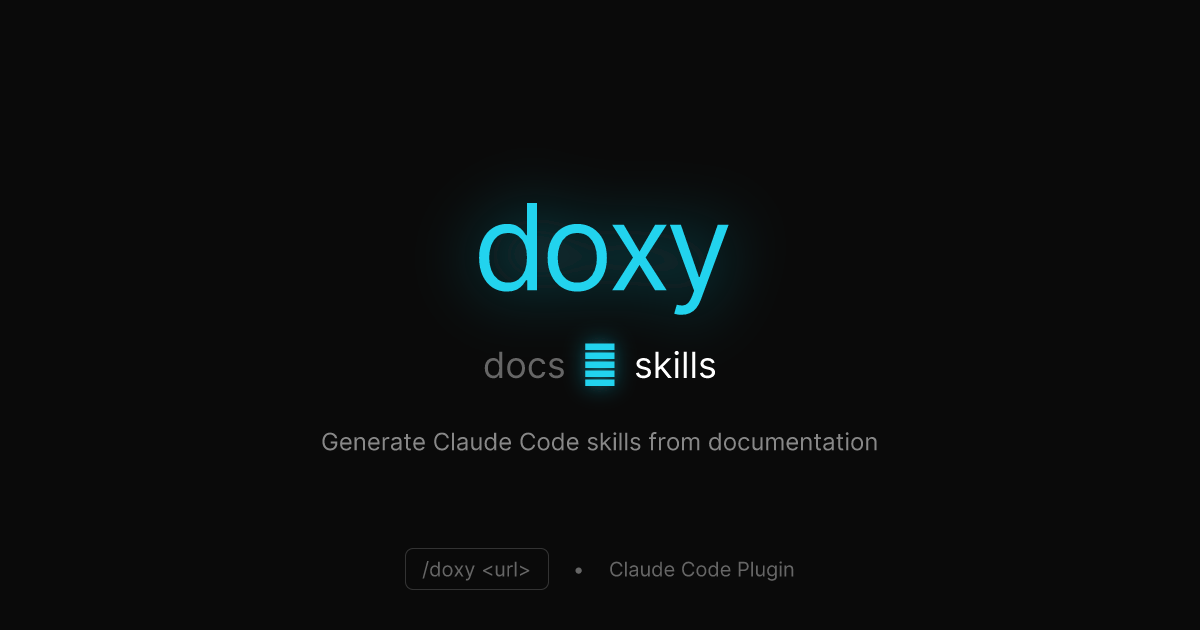
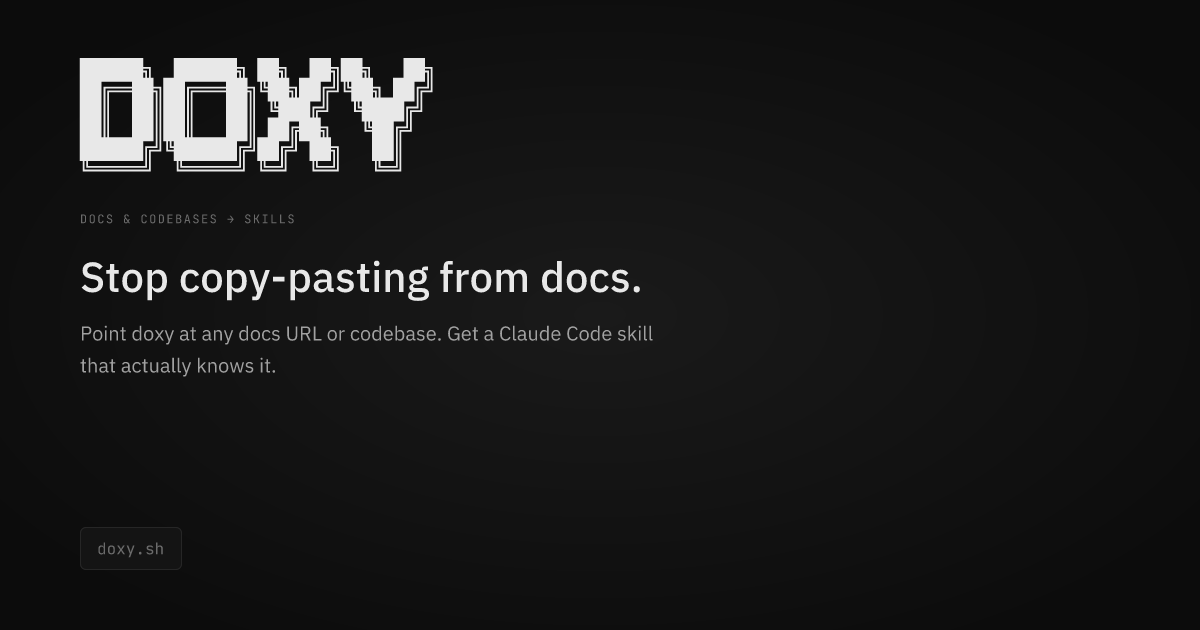
Update OG image to match stone-dark site theme
- ASCII art logo, left-aligned layout
- Stone-dark colors (#0c0c0c background, #e8e8e8 text)
- JetBrains Mono + IBM Plex Sans fonts
- Matches site's terminal/hacker aesthetic

diff --git a/site/scripts/generate-og.ts b/site/scripts/generate-og.ts
@@ -2,17 +2,28 @@
 
 /**
  * Generates the OG image for the site.
- * Run with: deno run --allow-net --allow-write --allow-read scripts/generate-og.ts
+ * Run with: deno task og
  */
 
 import satori from "satori";
 import { Resvg, initWasm } from "@resvg/resvg-wasm";
 
-// Fetch font
-const fontResponse = await fetch(
-  "https://fonts.gstatic.com/s/inter/v13/UcCO3FwrK3iLTeHuS_fvQtMwCp50KnMw2boKoduKmMEVuLyfAZ9hjp-Ek-_EeA.woff"
-);
-const fontData = await fontResponse.arrayBuffer();
+// Fetch fonts (TTF from Google Fonts - satori doesn't support woff2)
+const [jetbrainsResponse, ibmPlex400Response, ibmPlex500Response] = await Promise.all([
+  fetch(
+    "https://fonts.gstatic.com/s/jetbrainsmono/v24/tDbY2o-flEEny0FZhsfKu5WU4zr3E_BX0PnT8RD8yKxjPQ.ttf"
+  ),
+  fetch(
+    "https://fonts.gstatic.com/s/ibmplexsans/v23/zYXGKVElMYYaJe8bpLHnCwDKr932-G7dytD-Dmu1swZSAXcomDVmadSD6llzAA.ttf"
+  ),
+  fetch(
+    "https://fonts.gstatic.com/s/ibmplexsans/v23/zYXGKVElMYYaJe8bpLHnCwDKr932-G7dytD-Dmu1swZSAXcomDVmadSD2FlzAA.ttf"
+  ),
+]);
+
+const jetbrainsFont = await jetbrainsResponse.arrayBuffer();
+const ibmPlex400Font = await ibmPlex400Response.arrayBuffer();
+const ibmPlex500Font = await ibmPlex500Response.arrayBuffer();
 
 // Initialize WASM
 const wasmResponse = await fetch(
@@ -23,6 +34,14 @@ await initWasm(wasmBuffer);
 
 console.log("Generating OG image...");
 
+// ASCII art logo - simplified for better rendering
+const asciiLogo = `██████╗  ██████╗ ██╗  ██╗██╗   ██╗
+██╔══██╗██╔═══██╗╚██╗██╔╝╚██╗ ██╔╝
+██║  ██║██║   ██║ ╚███╔╝  ╚████╔╝
+██║  ██║██║   ██║ ██╔██╗   ╚██╔╝
+██████╔╝╚██████╔╝██╔╝ ██╗   ██║
+╚═════╝  ╚═════╝ ╚═╝  ╚═╝   ╚═╝`;
+
 const svg = await satori(
   {
     type: "div",
@@ -32,126 +51,96 @@ const svg = await satori(
         width: "100%",
         display: "flex",
         flexDirection: "column",
-        alignItems: "center",
-        justifyContent: "center",
-        backgroundColor: "#0a0a0a",
-        fontFamily: "Inter",
+        padding: "60px 80px",
+        backgroundColor: "#0c0c0c",
+        fontFamily: "IBM Plex Sans",
+        // Subtle gradient like the site
+        background: "radial-gradient(ellipse 100% 100% at 50% 0%, #1a1a1a 0%, #0c0c0c 60%)",
       },
       children: [
+        // ASCII Logo
         {
-          type: "div",
+          type: "pre",
           props: {
             style: {
-              display: "flex",
-              flexDirection: "column",
-              alignItems: "center",
+              fontFamily: "JetBrains Mono",
+              fontSize: 18,
+              lineHeight: 1.1,
+              color: "#e8e8e8",
+              margin: 0,
+              letterSpacing: "-0.02em",
             },
-            children: [
-              // Logo
-              {
-                type: "div",
-                props: {
-                  style: {
-                    fontSize: 120,
-                    fontWeight: 700,
-                    color: "#22d3ee",
-                    letterSpacing: "-0.05em",
-                    textShadow: "0 0 60px rgba(34, 211, 238, 0.5)",
-                  },
-                  children: "doxy",
-                },
-              },
-              // Tagline
-              {
-                type: "div",
-                props: {
-                  style: {
-                    display: "flex",
-                    alignItems: "center",
-                    gap: 16,
-                    marginTop: 24,
-                    fontSize: 36,
-                  },
-                  children: [
-                    {
-                      type: "span",
-                      props: {
-                        style: { color: "#666" },
-                        children: "docs",
-                      },
-                    },
-                    {
-                      type: "span",
-                      props: {
-                        style: {
-                          color: "#22d3ee",
-                          textShadow: "0 0 20px rgba(34, 211, 238, 0.5)",
-                        },
-                        children: "→",
-                      },
-                    },
-                    {
-                      type: "span",
-                      props: {
-                        style: { color: "#fff" },
-                        children: "skills",
-                      },
-                    },
-                  ],
-                },
-              },
-              // Description
-              {
-                type: "div",
-                props: {
-                  style: {
-                    marginTop: 40,
-                    fontSize: 24,
-                    color: "#888",
-                    maxWidth: 600,
-                    textAlign: "center",
-                  },
-                  children: "Generate Claude Code skills from documentation",
-                },
-              },
-            ],
+            children: asciiLogo,
           },
         },
-        // Footer
+        // Section label
         {
           type: "div",
           props: {
             style: {
-              position: "absolute",
-              bottom: 40,
+              fontFamily: "JetBrains Mono",
+              fontSize: 12,
+              textTransform: "uppercase",
+              letterSpacing: "0.12em",
+              color: "#6b6b6b",
+              marginTop: 32,
+            },
+            children: "docs & codebases → skills",
+          },
+        },
+        // Main headline
+        {
+          type: "div",
+          props: {
+            style: {
+              fontSize: 42,
+              fontWeight: 500,
+              color: "#e8e8e8",
+              marginTop: 24,
+              lineHeight: 1.2,
+            },
+            children: "Stop copy-pasting from docs.",
+          },
+        },
+        // Description
+        {
+          type: "div",
+          props: {
+            style: {
+              fontSize: 20,
+              color: "#a1a1a1",
+              marginTop: 16,
+              lineHeight: 1.6,
+              maxWidth: 600,
+            },
+            children: "Point doxy at any docs URL or codebase. Get a Claude Code skill that actually knows it.",
+          },
+        },
+        // Footer with URL
+        {
+          type: "div",
+          props: {
+            style: {
               display: "flex",
               alignItems: "center",
-              gap: 24,
-              fontSize: 20,
-              color: "#666",
+              gap: 16,
+              marginTop: "auto",
+              paddingTop: 40,
             },
             children: [
               {
-                type: "span",
+                type: "div",
                 props: {
                   style: {
-                    padding: "8px 16px",
-                    border: "1px solid #333",
-                    borderRadius: 8,
+                    fontFamily: "JetBrains Mono",
+                    fontSize: 16,
+                    color: "#6b6b6b",
+                    padding: "10px 16px",
+                    border: "1px solid #262626",
+                    borderRadius: 6,
+                    background: "#141414",
                   },
-                  children: "/doxy <url>",
-                },
-              },
-              {
-                type: "span",
-                props: {
-                  children: "•",
-                },
-              },
-              {
-                type: "span",
-                props: {
-                  children: "Claude Code Plugin",
+                  children: "doxy.sh",
                 },
               },
             ],
@@ -165,15 +154,21 @@ const svg = await satori(
     height: 630,
     fonts: [
       {
-        name: "Inter",
-        data: fontData,
+        name: "JetBrains Mono",
+        data: jetbrainsFont,
         weight: 400,
         style: "normal",
       },
       {
-        name: "Inter",
-        data: fontData,
-        weight: 700,
+        name: "IBM Plex Sans",
+        data: ibmPlex400Font,
+        weight: 400,
+        style: "normal",
+      },
+      {
+        name: "IBM Plex Sans",
+        data: ibmPlex500Font,
+        weight: 500,
         style: "normal",
       },
     ],
